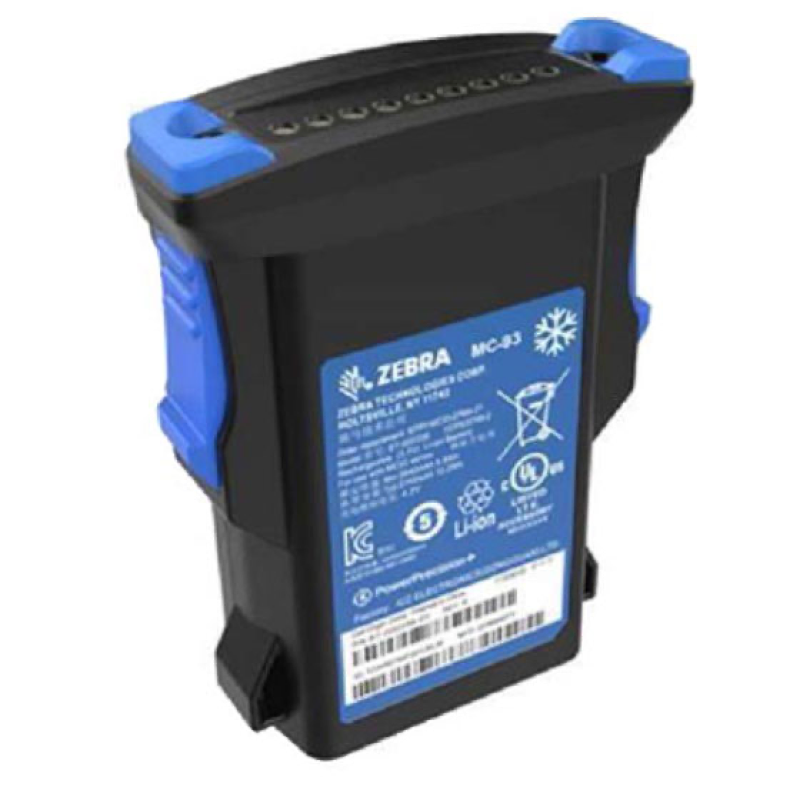
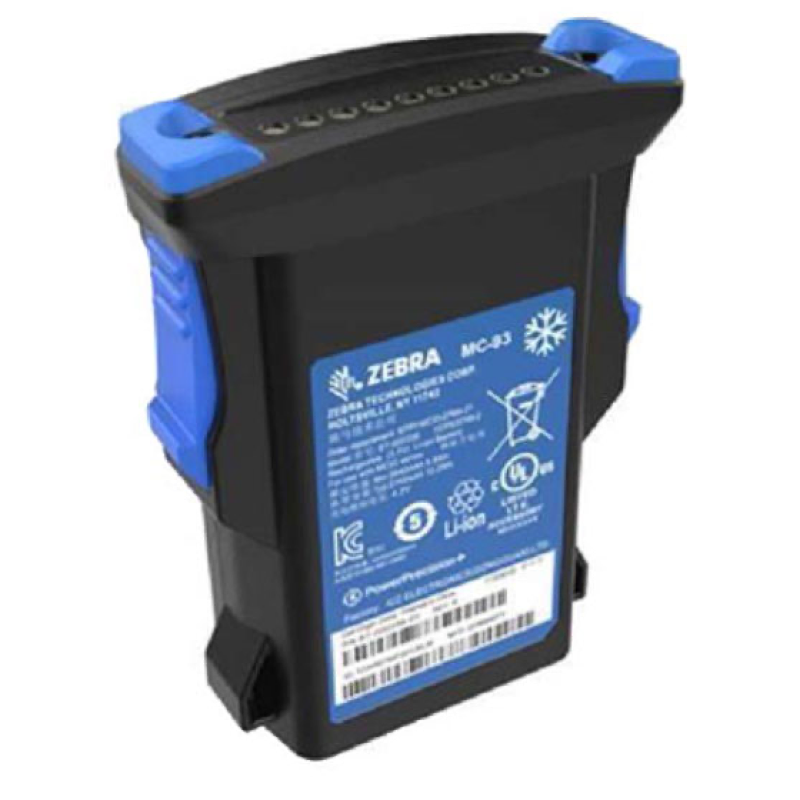
fix(sklep): spójna dostępność live stock + ujednolicona kolorystyka kafelków
- Fix niespójności grid vs karta produktu: grid priorytetyzuje live dane
  z Ingram API nad stałe dane z DB (stare dane stock mogły fałszywie
  pokazywać "Dostępny" gdy Ingram zwracał 0)
- Ujednolicona kolorystyka kafelków /sklep i /sklep/[kategoria]:
  czerwony tekst + koszyk dla niedostępnych, limonkowy dla dostępnych
- Dodano live stock z Ingram API do ShopMainPage (strona główna sklepu)
- Powiększone zdjęcia 8 akumulatorów (crop whitespace + resize 800x800)
- Zamienione zdjęcie BTRY-MC93-STN-01 na lepsze

diff --git a/components/shop/ShopMainPage.tsx b/components/shop/ShopMainPage.tsx
@@ -70,7 +70,32 @@ export default function ShopMainPage() {
   const [expandedProductTypes, setExpandedProductTypes] = useState<string[]>(['glowica'])
   const [showMobileFilters, setShowMobileFilters] = useState(false)
 
+  const [liveStockMap, setLiveStockMap] = useState<Record<string, number>>({})
   const addToCart = useCartStore((state) => state.addItem)
+
+  // Pobierz live stock z Ingram API dla załadowanych produktów
+  useEffect(() => {
+    const skus = products.map(p => p.sku).filter(Boolean)
+    if (skus.length === 0) return
+
+    const controller = new AbortController()
+    Promise.all(
+      skus.map(sku =>
+        fetch(`/api/shop/product-stock?sku=${encodeURIComponent(sku)}`, { signal: controller.signal })
+          .then(r => r.json())
+          .then(data => data.found ? { sku, total: data.total_stock ?? 0 } : null)
+          .catch(() => null)
+      )
+    ).then(results => {
+      const map: Record<string, number> = {}
+      for (const r of results) {
+        if (r) map[r.sku] = r.total
+      }
+      setLiveStockMap(map)
+    })
+
+    return () => controller.abort()
+  }, [products])
 
   useEffect(() => {
     fetchProducts()
@@ -368,45 +393,51 @@ export default function ShopMainPage() {
                         </div>
 
                         <div className="p-3 sm:p-4 border-t border-gray-100">
-                          <h3 className="text-xs sm:text-sm font-semibold text-gray-900 mb-2 line-clamp-2 leading-tight">
+                          <h3 className="text-xs sm:text-sm font-semibold text-gray-900 group-hover:text-blue-600 mb-2 line-clamp-2 leading-tight">
                             {product.name}
                           </h3>
 
-                          <div className="mb-2">
-                            {product.stock > 0 ? (
-                              <span className="text-[10px] sm:text-xs text-green-600 font-medium">
-                                ✓ Wysyłka 24-72h
-                              </span>
-                            ) : (product.attributes?.in_delivery ?? 0) > 0 ? (
-                              <span className="text-[10px] sm:text-xs text-amber-600 font-medium">
-                                Wysyłka 3-5 dni
-                              </span>
-                            ) : (
-                              <span className="text-[10px] sm:text-xs text-amber-600 font-medium">
-                                Wysyłka 5-7 dni
-                              </span>
-                            )}
-                          </div>
+                          {(() => {
+                            const hasLiveData = product.sku in liveStockMap
+                            const isAvailable = hasLiveData
+                              ? liveStockMap[product.sku] > 0
+                              : (product.stock > 0 || (product.attributes?.stock_pl ?? 0) > 0 || (product.attributes?.stock_de ?? 0) > 0)
+                            return (
+                              <>
+                                <div className="mb-2">
+                                  {isAvailable ? (
+                                    <span className="text-[10px] sm:text-xs text-green-600 font-medium">
+                                      ✓ Dostępny
+                                    </span>
+                                  ) : (
+                                    <span className="text-[10px] sm:text-xs text-red-500 font-medium">
+                                      Chwilowo niedostępny
+                                    </span>
+                                  )}
+                                </div>
 
-                          <div className="flex items-end justify-between">
-                            <div>
-                              <div className="text-base sm:text-lg font-bold text-gray-900">
-                                {product.price.toFixed(2).replace('.', ',')} zł
-                              </div>
-                              <div className="text-[10px] sm:text-xs text-gray-500">netto</div>
-                            </div>
+                                <div className="flex items-end justify-between">
+                                  <div>
+                                    <div className="text-base sm:text-lg font-bold text-gray-900">
+                                      {product.price.toFixed(2).replace('.', ',')} zł
+                                    </div>
+                                    <div className="text-[10px] sm:text-xs text-gray-500">netto</div>
+                                  </div>
 
-                            <button
-                              onClick={(e) => handleAddToCart(e, product)}
-                              className={`p-2 sm:p-2.5 rounded-lg text-white transition-colors ${
-                                product.stock > 0
-                                  ? 'bg-green-600 hover:bg-green-700'
-                                  : 'bg-amber-500 hover:bg-amber-600'
-                              }`}
-                            >
-                              <ShoppingCart className="w-4 h-4" />
-                            </button>
-                          </div>
+                                  <button
+                                    onClick={(e) => handleAddToCart(e, product)}
+                                    className={`p-2 sm:p-2.5 rounded-lg text-white transition-colors ${
+                                      isAvailable
+                                        ? 'bg-[#A8F000] hover:bg-[#96D800] text-gray-900'
+                                        : 'bg-red-500 hover:bg-red-600'
+                                    }`}
+                                  >
+                                    <ShoppingCart className="w-4 h-4" />
+                                  </button>
+                                </div>
+                              </>
+                            )
+                          })()}
                         </div>
                       </Link>
                     )

diff --git a/components/shop/ShopCategoryClient.tsx b/components/shop/ShopCategoryClient.tsx
@@ -215,6 +215,12 @@ export default function ShopCategoryClient({
             const productUrl = getProductUrl(product)
             const imageUrl = getProductImage(product)
 
+            // Dostępność: priorytet live data z Ingram API, fallback na dane z DB
+            const hasLiveData = product.sku in liveStockMap
+            const isAvailable = hasLiveData
+              ? liveStockMap[product.sku] > 0
+              : (product.stock > 0 || (product.attributes?.stock_pl ?? 0) > 0 || (product.attributes?.stock_de ?? 0) > 0)
+
             return (
               <Link
                 key={product.id}
@@ -250,13 +256,13 @@ export default function ShopCategoryClient({
 
                   {/* Dostępność */}
                   <div className="mb-2">
-                    {(product.stock > 0 || (liveStockMap[product.sku] ?? 0) > 0 || (product.attributes?.stock_pl ?? 0) > 0 || (product.attributes?.stock_de ?? 0) > 0) ? (
+                    {isAvailable ? (
                       <span className="text-[10px] sm:text-xs text-green-600 font-medium">
                         ✓ Dostępny
                       </span>
                     ) : (
-                      <span className="text-[10px] sm:text-xs text-amber-500 font-medium">
-                        Na zamówienie
+                      <span className="text-[10px] sm:text-xs text-red-500 font-medium">
+                        Chwilowo niedostępny
                       </span>
                     )}
                   </div>
@@ -273,9 +279,9 @@ export default function ShopCategoryClient({
                     <button
                       onClick={(e) => handleAddToCart(e, product)}
                       className={`p-2 sm:p-2.5 rounded-lg text-white transition-colors ${
-                        (product.stock > 0 || (liveStockMap[product.sku] ?? 0) > 0 || (product.attributes?.stock_pl ?? 0) > 0 || (product.attributes?.stock_de ?? 0) > 0)
+                        isAvailable
                           ? 'bg-[#A8F000] hover:bg-[#96D800] text-gray-900'
-                          : 'bg-amber-500 hover:bg-amber-600'
+                          : 'bg-red-500 hover:bg-red-600'
                       }`}
                     >
                       <ShoppingCart className="w-4 h-4" />
